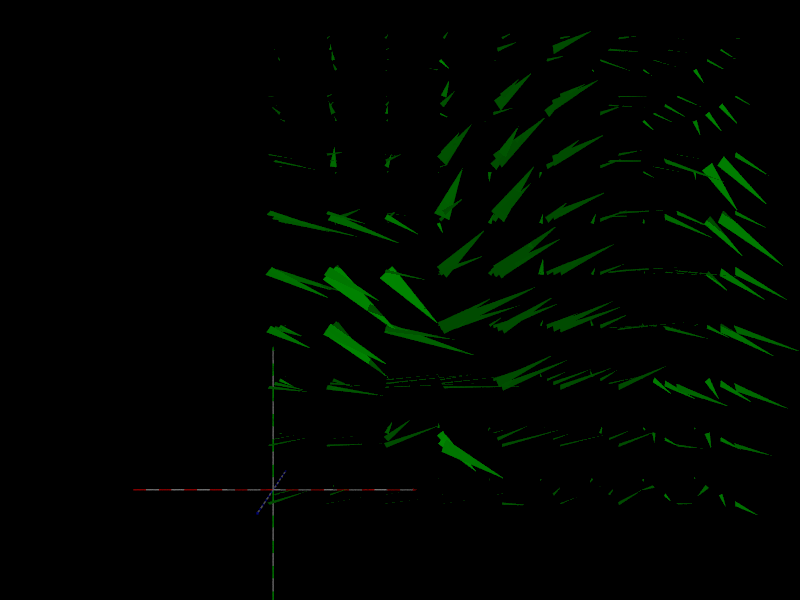
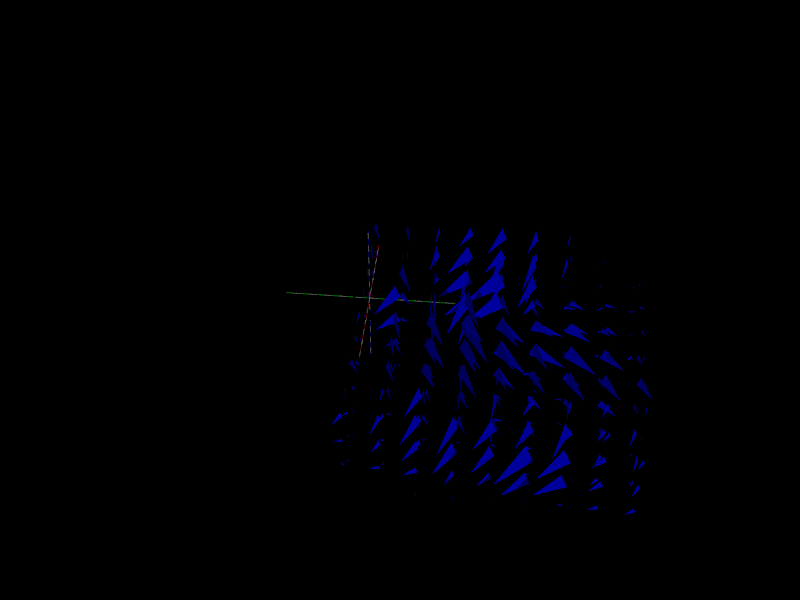
Coneplot: colors template

diff --git a/pov_coneplot.m b/pov_coneplot.m
@@ -220,22 +220,27 @@ else
   end
   
   h = patch('faces', faces, 'vertices', verts, 'parent', cax);
-  [fnum, pnum] = size(faces);
-  for i=1:fnum
-    % TODO: Write cones
-    if ~isnan(verts(faces(i,1),1))
-        fprintf(fh, '    triangle {<%0.2f, %0.2f, %0.2f>, <%0.2f, %0.2f, %0.2f>, <%0.2f, %0.2f, %0.2f> \n texture {%s}}\n', ...
-                      verts(faces(i,1),1), verts(faces(i,1),2), verts(faces(i,1),3),...
-                      verts(faces(i,2),1), verts(faces(i,2),2), verts(faces(i,2),3),...
-                      verts(faces(i,3),1), verts(faces(i,3),2), verts(faces(i,3),3),'tex_default');
-    end
-  end
   
-  % TODO: Get colors from here
   if ~isempty(color)
     fvc = repmat(ci(:)',[vlen 1]);
     set(h, 'facecolor', 'flat', 'facevertexcdata', fvc(:))
   end
+
+  % Write to POV
+  [fnum, pnum] = size(faces);
+  for i=1:fnum
+    % TODO: Write colored cones
+    % size(fvc)
+    % size(faces)
+    if ~isnan(verts(faces(i,1),1))
+        fprintf(fh, '    triangle {<%0.2f, %0.2f, %0.2f>, <%0.2f, %0.2f, %0.2f>, <%0.2f, %0.2f, %0.2f> \n texture {pigment{rgb<%0.1f, %0.1f, %0.1f>}}}\n', ...
+                      verts(faces(i,1),1), verts(faces(i,1),2), verts(faces(i,1),3),...
+                      verts(faces(i,2),1), verts(faces(i,2),2), verts(faces(i,2),3),...
+                      verts(faces(i,3),1), verts(faces(i,3),2), verts(faces(i,3),3), ...
+                      0,0,1);
+    end
+  end
+  
 end
 
 if nargout==1 
